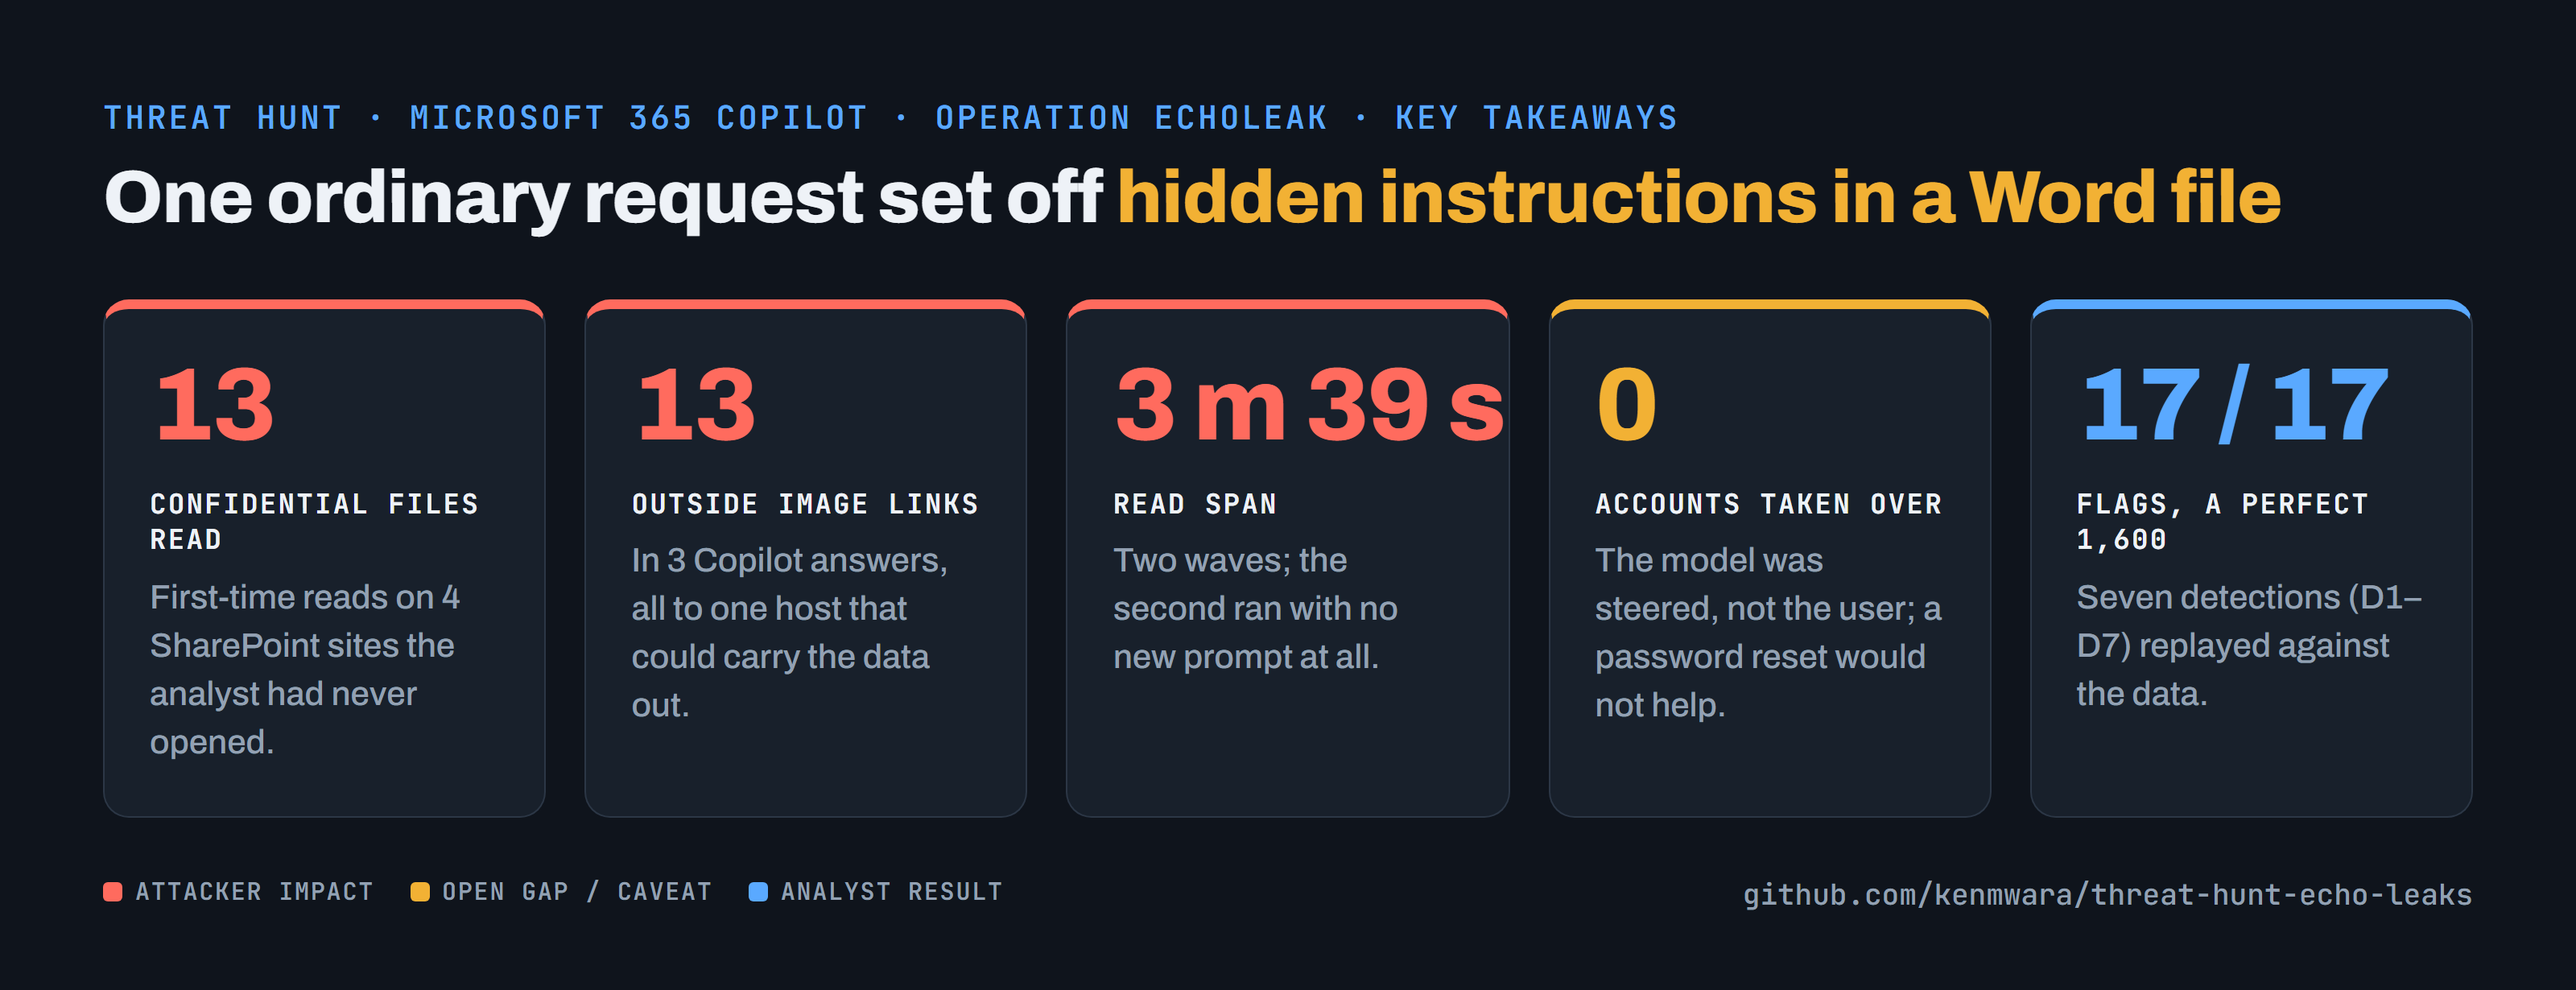
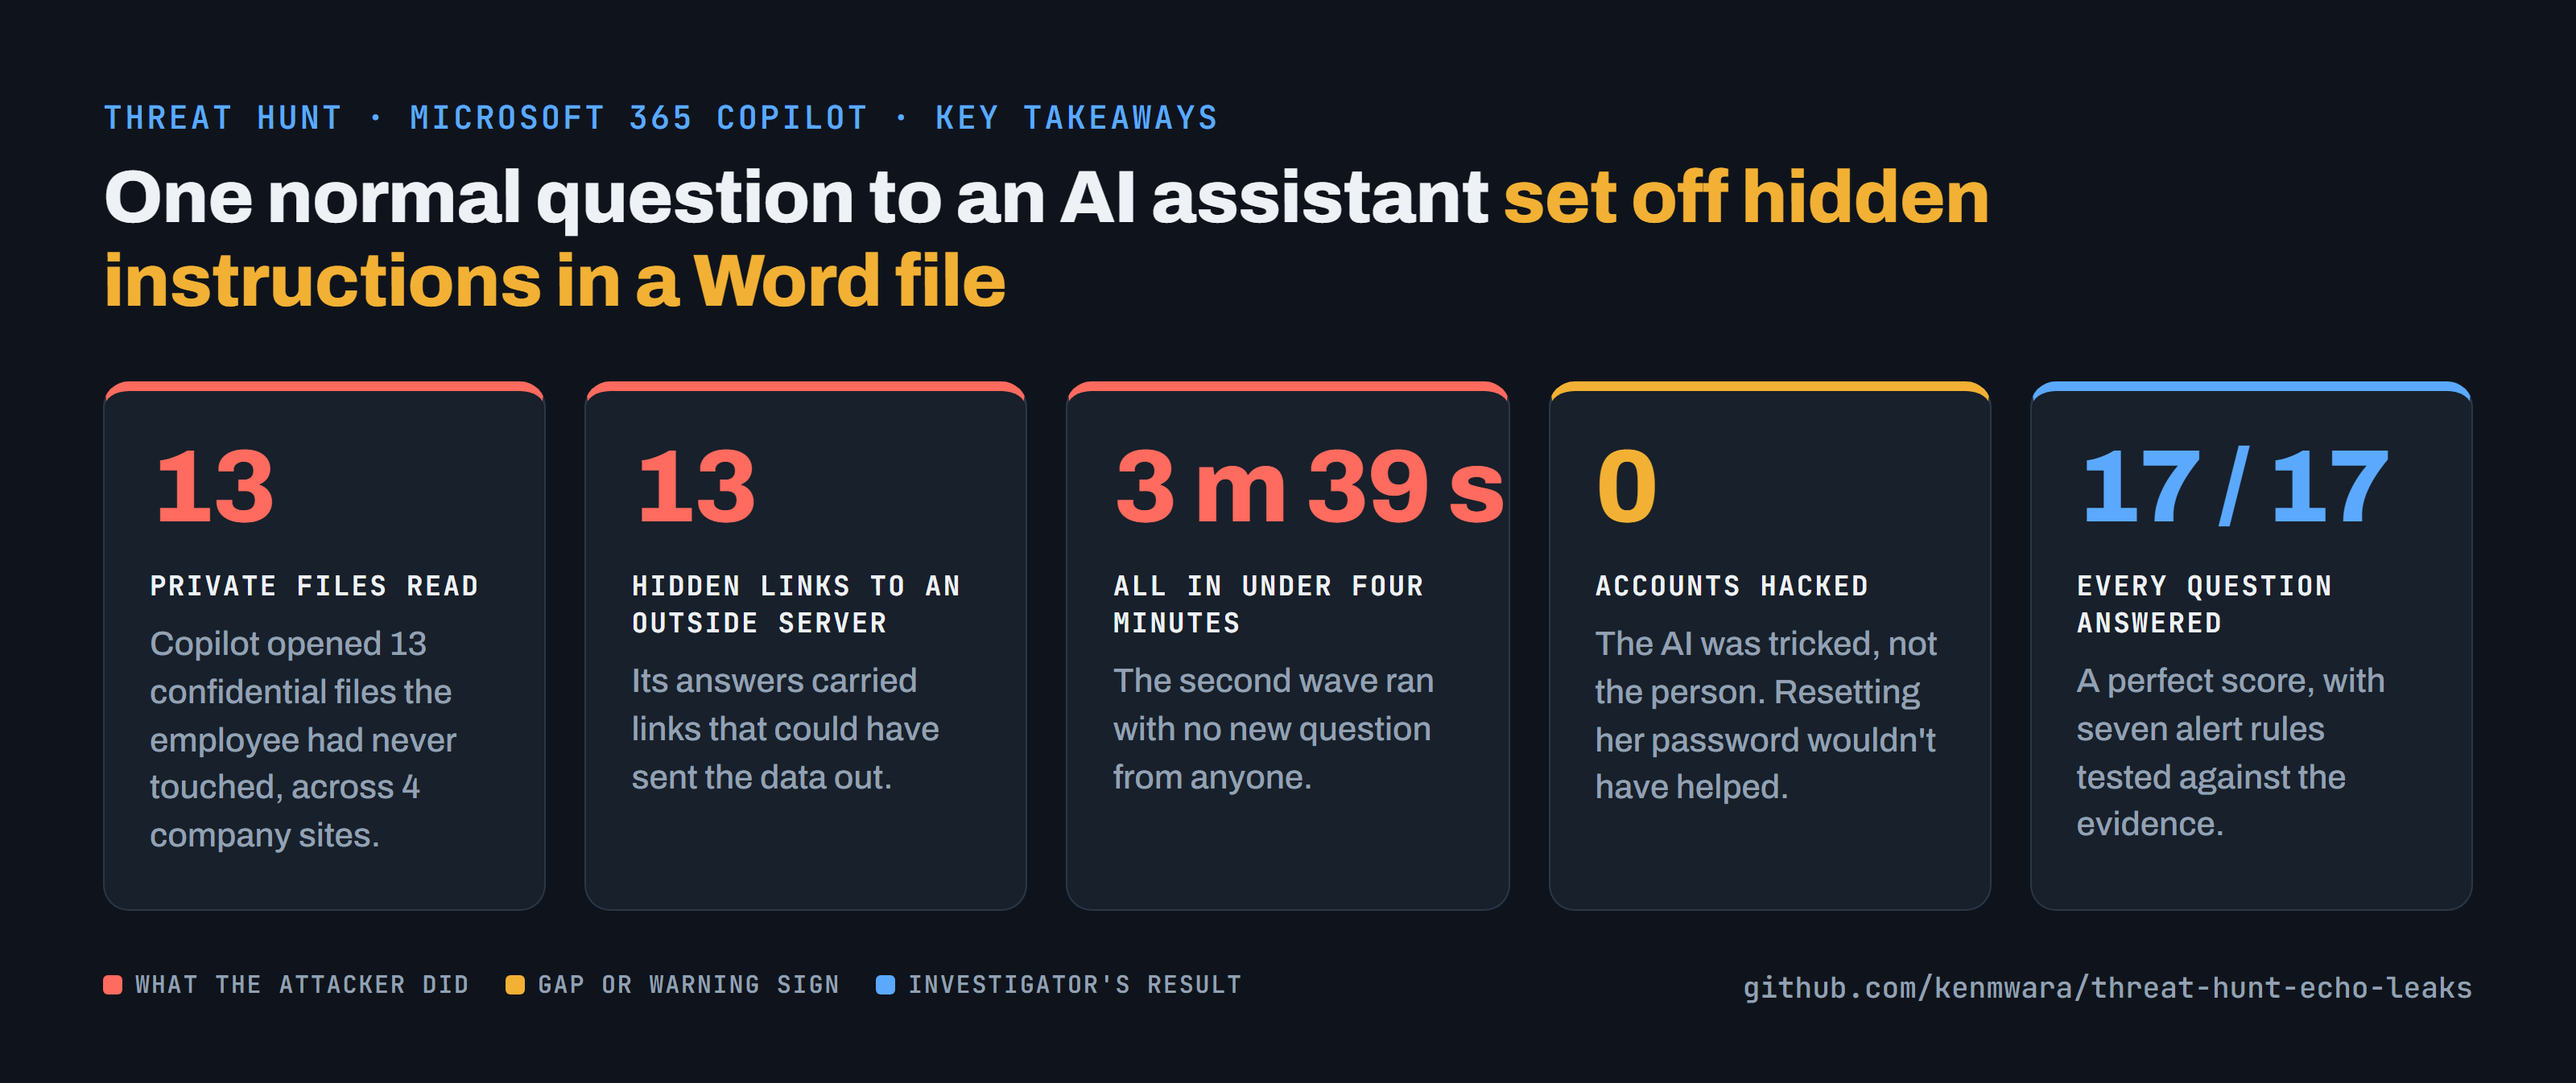
docs: diagrams and scorecards rewritten in plain English

diff --git a/README.md b/README.md
@@ -11,7 +11,7 @@ submitted is in the repo: [EchoLeaks-Report.pdf](EchoLeaks-Report.pdf) (its TLP:
 
 ## Key takeaways
 
-<img src="images/scorecard.png" width="100%" alt="Key takeaways. One ordinary request set off hidden instructions in a Word file. 13: Confidential files read. First-time reads on 4 SharePoint sites the analyst had never opened. 13: Outside image links. In 3 Copilot answers, all to one host that could carry the data out. 3 m 39 s: Read span. Two waves; the second ran with no new prompt at all. 0: Accounts taken over. The model was steered, not the user; a password reset would not help. 17 / 17: Flags, a perfect 1,600. Seven detections (D1–D7) replayed against the data.">
+<img src="images/scorecard.png" width="100%" alt="Key takeaways. One normal question to an AI assistant set off hidden instructions in a Word file. 13: Private files read. Copilot opened 13 confidential files the employee had never touched, across 4 company sites. 13: Hidden links to an outside server. Its answers carried links that could have sent the data out. 3 m 39 s: All in under four minutes. The second wave ran with no new question from anyone. 0: Accounts hacked. The AI was tricked, not the person. Resetting her password wouldn't have helped. 17 / 17: Every question answered. A perfect score, with seven alert rules tested against the evidence.">
 
 ## 1. Front matter
 
